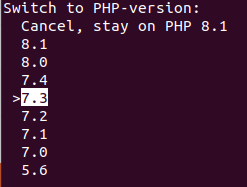
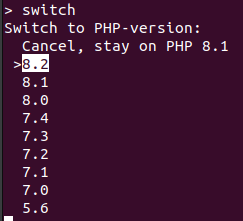
Added PHP 8.2

Changed region(s): [[0.0, 0.0, 0.3457, 1.0], [0.3745, 0.0, 0.9506, 0.2674]]

diff --git a/README.md b/README.md
@@ -15,6 +15,8 @@ Run `setup.sh` once.
 This may take some time depending on your system and connection speed.
 It will require you to enter your password to install new packages.
 
+I added an alias to my /home/{user}/.bash_aliases so I can just run `switch` from my CLI:
+`alias switch='sudo /home/switch-php.sh'`
 
 ## Usage
 Run `switch-php.sh`, you can choose to which version you want to switch:
@@ -25,4 +27,3 @@ Run `switch-php.sh`, you can choose to which version you want to switch:
 ## Sources
 - https://github.com/rapidwebltd/php-switch-scripts
 - https://askubuntu.com/a/1386907
-
